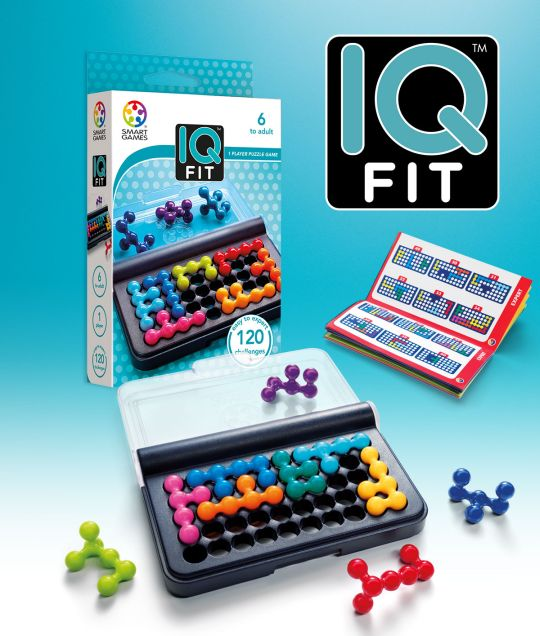
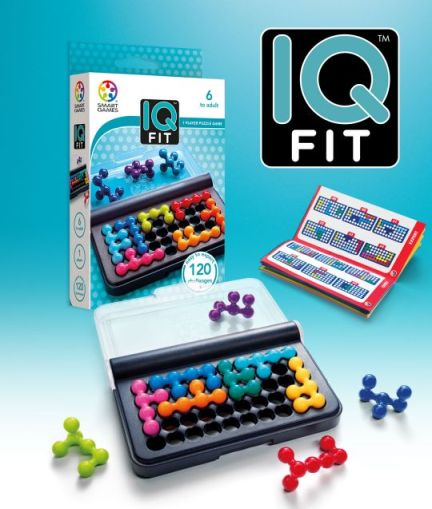
update readme

diff --git a/README.md b/README.md
@@ -1,4 +1,3 @@
 # iq_fit_solver
 
-![screenshot](/game_box.jpg)
-![screenshot](/screenshot.png)
+![screenshot](/game_box.jpg) ![screenshot](/screenshot.png)
